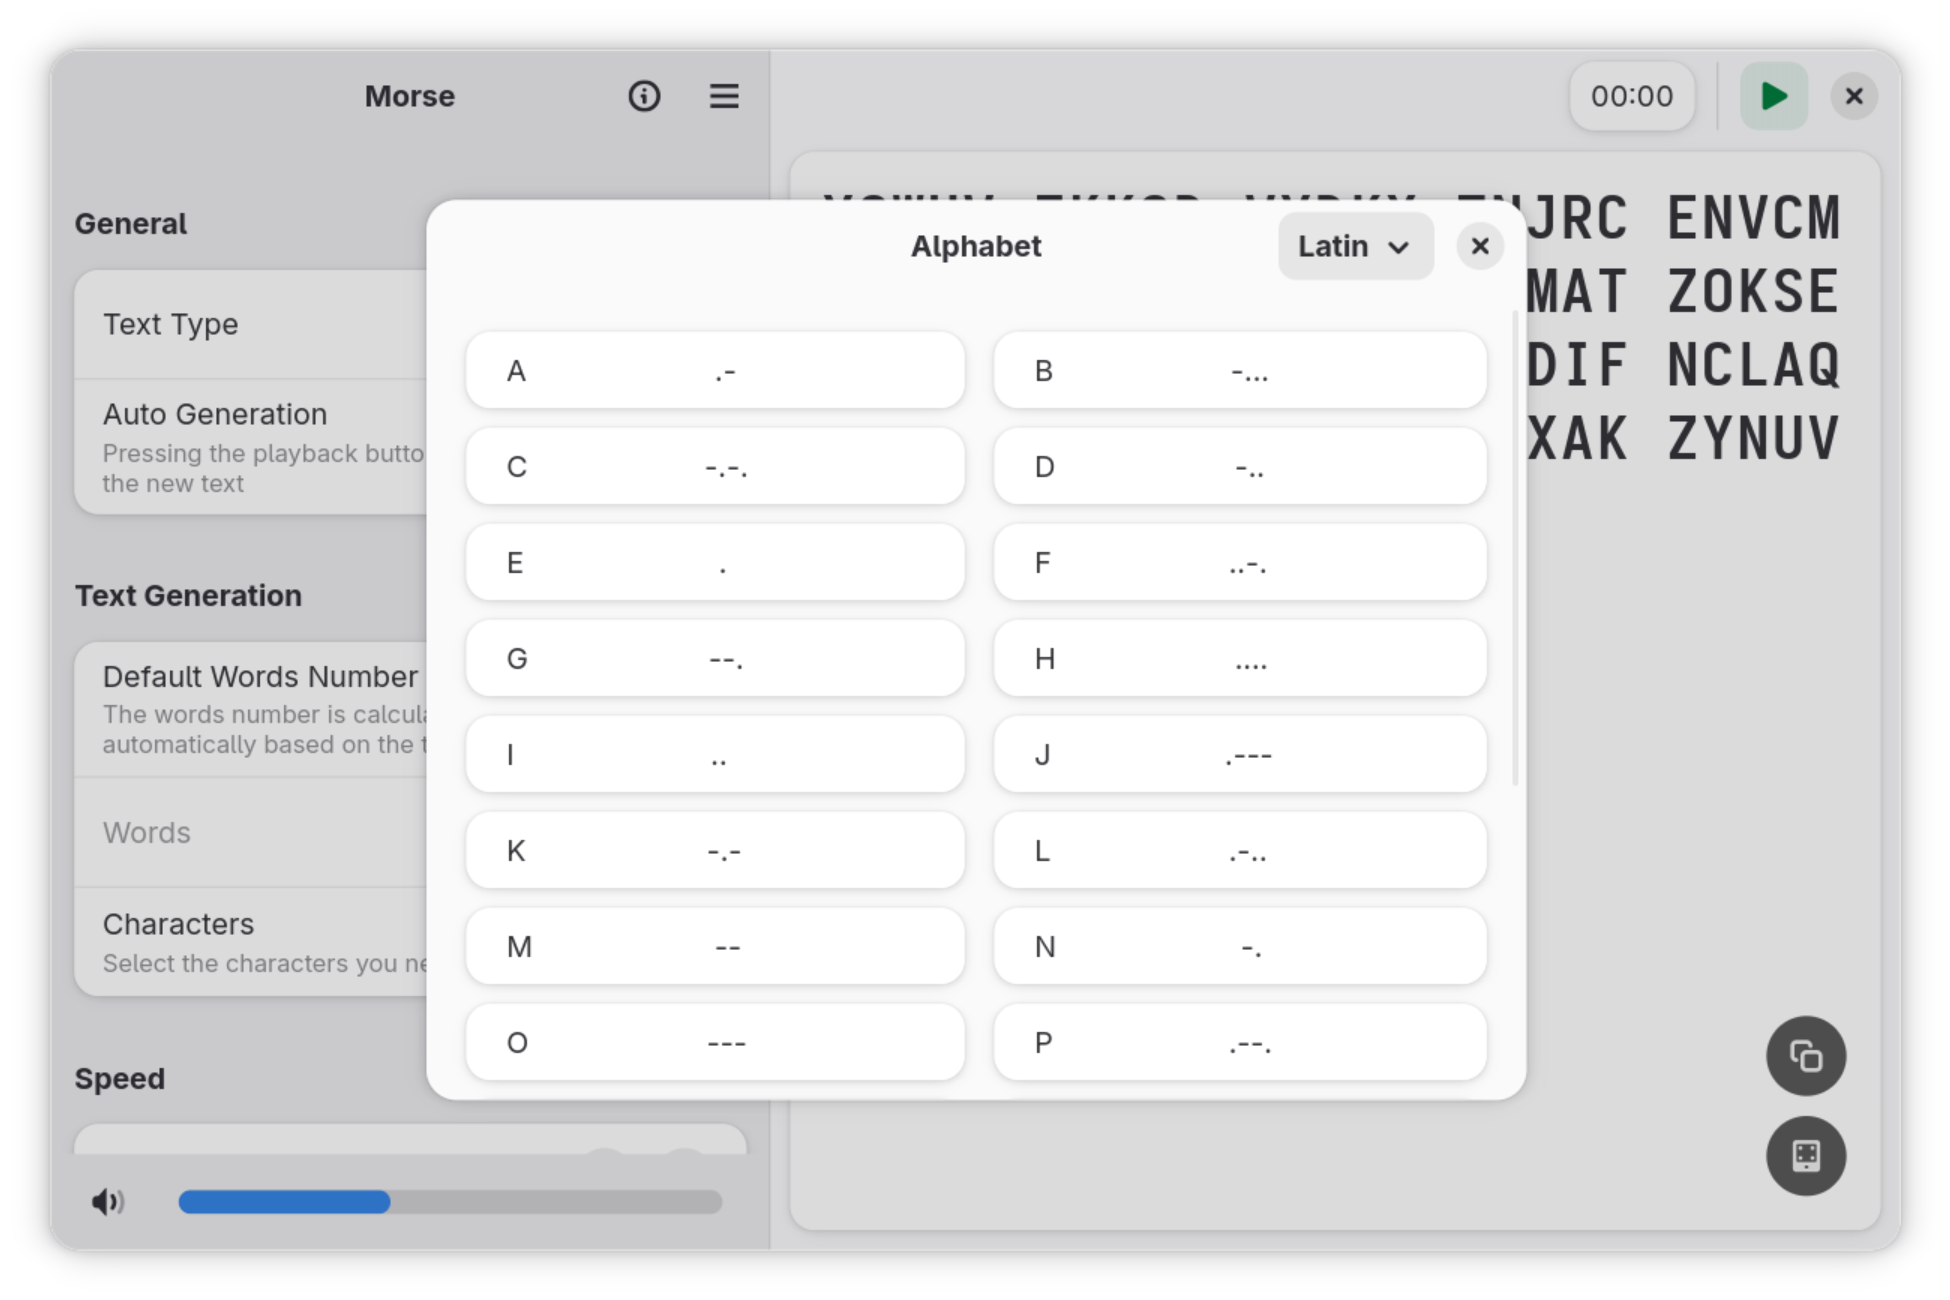
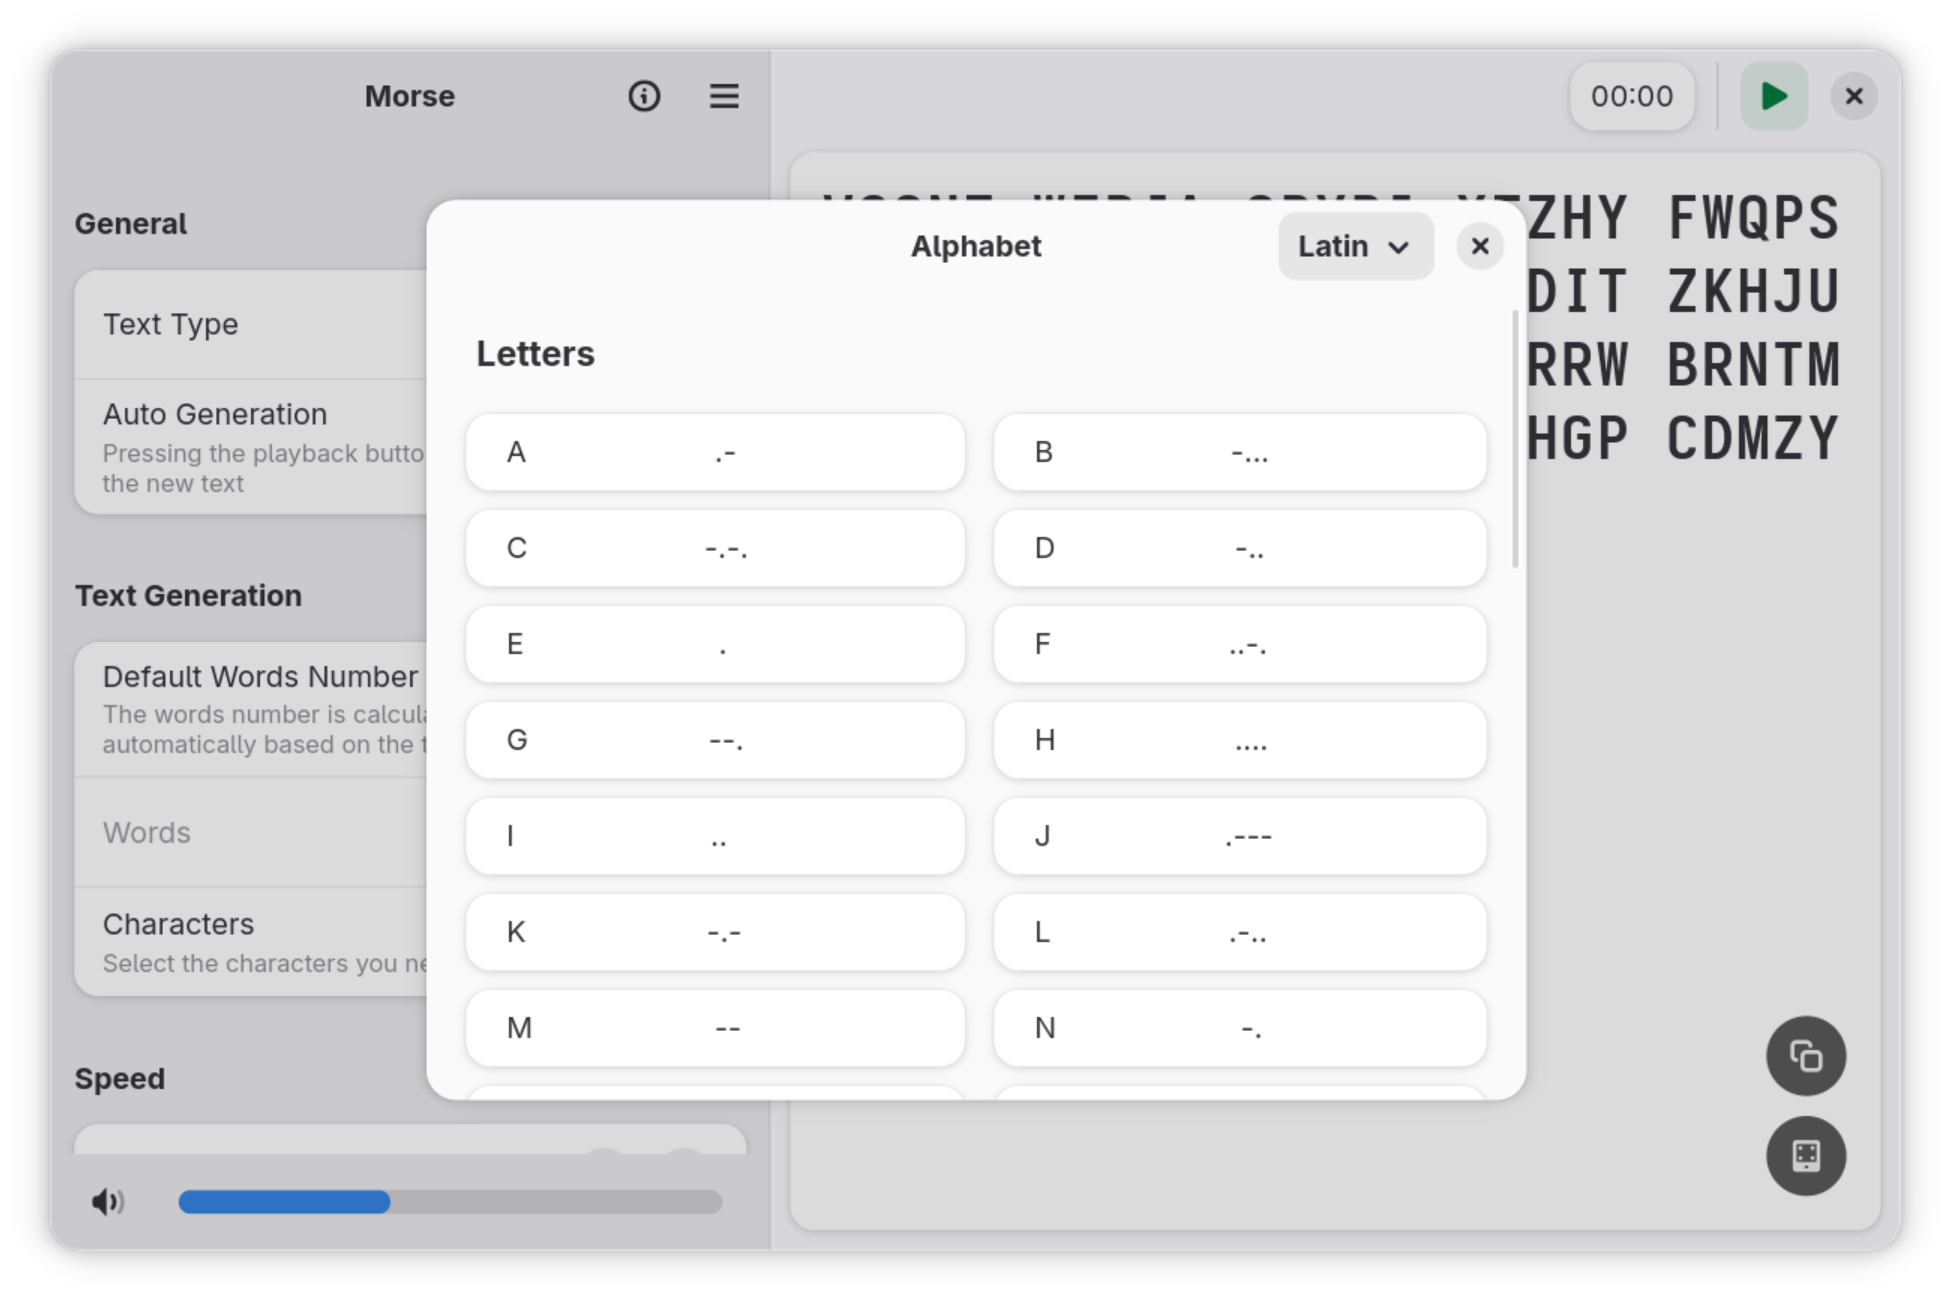
Update interface & screenshots

diff --git a/src/widgets/alphabet_dialog.rs b/src/widgets/alphabet_dialog.rs
@@ -23,7 +23,6 @@ use gtk::{prelude::*, glib, Grid, DropDown, Box, Label, Orientation, Align};
 use std::{cell::{OnceCell, RefCell}};
 
 mod imp {
-
     use super::*;
 
     #[derive(Debug, Default, gtk::CompositeTemplate)]
@@ -32,7 +31,11 @@ mod imp {
         #[template_child]
         alphabets_combo: TemplateChild<DropDown>,
         #[template_child]
-        alphabet_grid: TemplateChild<Grid>,
+        letters_grid: TemplateChild<Grid>,
+        #[template_child]
+        digits_grid: TemplateChild<Grid>,
+        #[template_child]
+        symbols_grid: TemplateChild<Grid>,
         grid_items: OnceCell<RefCell<Vec<Box>>>,
         player: OnceCell<RefCell<MorsePlayer>>,
     }
@@ -87,13 +90,20 @@ mod imp {
                             (ALPHABETS.get(&Alphabet::Latin.to_string()).unwrap().clone(), Alphabet::Latin)
                         }
                     };
-
                     this.player.get().unwrap().borrow().set_alphabet(alphabet_type);
-                    this.construct_alphabet(alphabet);
+                    this.construct_alphabet(
+                        alphabet,
+                        ALPHABETS.get("digits").unwrap().clone(),
+                        ALPHABETS.get("symbols").unwrap().clone()
+                    );
                 }
             ));
             
-            self.construct_alphabet(ALPHABETS.get(&Alphabet::Latin.to_string()).unwrap().clone());
+            self.construct_alphabet(
+                ALPHABETS.get(&Alphabet::Latin.to_string()).unwrap().clone(),
+                ALPHABETS.get("digits").unwrap().clone(),
+                ALPHABETS.get("symbols").unwrap().clone()
+            );
             self.player.get().unwrap().borrow().set_alphabet(Alphabet::Latin);
             self.alphabets_combo.set_selected(settings_manager.integer(Key::Alphabet) as u32);
         }
@@ -102,7 +112,7 @@ mod imp {
     impl AdwDialogImpl for MorseAlphabetDialog {}
 
     impl MorseAlphabetDialog {
-        fn construct_alphabet(&self, chars: Vec<char>) {
+        fn construct_alphabet(&self, letters: Vec<char>, digits: Vec<char>, symbols: Vec<char>) {
             let mut grid_items = self.grid_items.get().unwrap().borrow_mut();
 
             for el in grid_items.iter() {
@@ -111,39 +121,45 @@ mod imp {
 
             grid_items.clear();
 
-            for (i, el) in chars.iter().enumerate() {
-                let alphabet_item = Box::builder()
-                .orientation(Orientation::Horizontal)
-                .hexpand(true)
-                .css_classes(["card"])
-                .build();
+            for (grid, chars) in [
+                (self.letters_grid.clone(), letters),
+                (self.digits_grid.clone(), digits),
+                (self.symbols_grid.clone(), symbols)
+                ] {
+                for (i, el) in chars.iter().enumerate() {
+                    let alphabet_item = Box::builder()
+                    .orientation(Orientation::Horizontal)
+                    .hexpand(true)
+                    .css_classes(["card"])
+                    .build();
 
-                let char_widget = Label::builder()
-                .label(&el.to_string())
-                .margin_start(20)
-                .margin_top(10)
-                .margin_bottom(10)
-                .build();
-                let morse_widget = Label::builder()
-                .label(self.player.get().unwrap().borrow().get_morse(el))
-                .margin_end(20)
-                .margin_top(10)
-                .margin_bottom(10)
-                .hexpand(true)
-                .halign(Align::Center)
-                .build();
-                alphabet_item.append(&char_widget);
-                alphabet_item.append(&morse_widget);
-                
-                self.alphabet_grid.attach(
-                    &alphabet_item,
-                    (i % 2) as i32,
-                    (i / 2) as i32,
-                    1,
-                    1
-                );
+                    let char_widget = Label::builder()
+                    .label(&el.to_string())
+                    .margin_start(20)
+                    .margin_top(10)
+                    .margin_bottom(10)
+                    .build();
+                    let morse_widget = Label::builder()
+                    .label(self.player.get().unwrap().borrow().get_morse(el))
+                    .margin_end(20)
+                    .margin_top(10)
+                    .margin_bottom(10)
+                    .hexpand(true)
+                    .halign(Align::Center)
+                    .build();
+                    alphabet_item.append(&char_widget);
+                    alphabet_item.append(&morse_widget);
+                    
+                    grid.attach(
+                        &alphabet_item,
+                        (i % 2) as i32,
+                        (i / 2) as i32,
+                        1,
+                        1
+                    );
 
-                grid_items.push(alphabet_item);
+                    grid_items.push(alphabet_item);
+                }
             }
         }
     }
